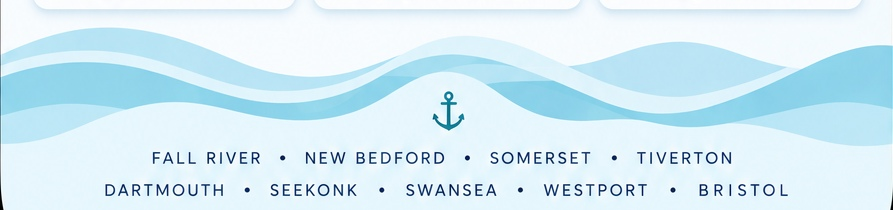
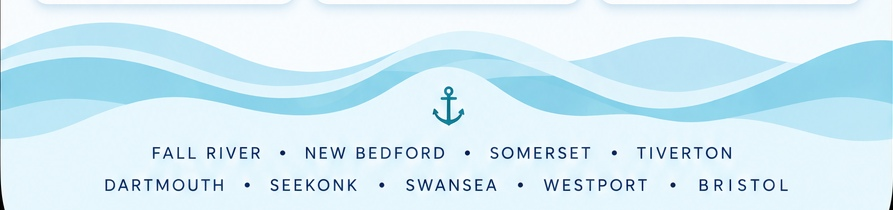
Add files via upload

diff --git a/styles.css b/styles.css
@@ -1,2 +1,2 @@
-:root{--navy:#0b315d;--teal:#1599a2;--sky:#e8f7fc;--paper:#fbfeff;--line:#dcebf2;--text:#10355f}
-*{box-sizing:border-box}body{margin:0;background:#dfe9ee;color:var(--text);font-family:Arial,"Trebuchet MS",sans-serif}.app{width:min(100%,900px);margin:0 auto;background:var(--paper);min-height:100vh;overflow:hidden}.brand-header{min-height:170px;background:#eaf8fd;display:grid;grid-template-columns:78px 1fr 78px;align-items:center;padding:8px 24px}.header-button{border:0;background:none;color:var(--navy);font-size:42px;cursor:pointer}.header-button.search{font-size:55px}.brand-lockup{text-align:center}.brand-mark{width:180px;height:75px;display:block;margin:0 auto -12px}.brand-name{font-size:42px;font-weight:800;letter-spacing:-2px;white-space:nowrap}.brand-name em{font-family:cursive;color:#15999f;font-size:53px;font-weight:500}.tagline{font-size:15px;letter-spacing:4px;margin-top:3px}.hero{position:relative;height:285px;background:#eaf8fd;overflow:hidden}.hero-image{width:100%;height:190px;object-fit:cover;display:block}.hero-copy{height:120px;text-align:center;padding:24px 12px;background:linear-gradient(#eaf8fd,#fbfeff)}.hero-copy h1{margin:0;font-size:42px;letter-spacing:-1.2px}.hero-copy p{margin:4px 0;font-size:24px}main{padding-bottom:26px}.location,.food,.how{padding:0 48px}.current,.town-toggle{width:100%;display:grid;grid-template-columns:58px 1fr 30px;align-items:center;text-align:left;border:0;border-radius:22px;cursor:pointer}.current{background:linear-gradient(100deg,#15949c,#11949f);color:#fff;padding:18px 25px;box-shadow:0 6px 14px #0d3c5a18}.current strong{display:block;font-size:24px}.current small{display:block;font-size:18px;margin-top:2px}.current b,.town-toggle b{font-size:42px;font-weight:400}.symbol{font-size:38px;transform:rotate(-45deg);display:block}.town-toggle{margin-top:9px;background:#e1f3fa;padding:17px 25px;color:var(--navy)}.town-toggle strong{font-size:21px}.pin{transform:none;font-size:20px}.towns{display:flex;flex-wrap:wrap;gap:9px;padding:9px 0 0;justify-content:center}.towns button{border:0;background:#e6f4fa;border-radius:18px;padding:10px 23px;font-size:17px;cursor:pointer}.towns button.selected{background:#cdebf1;font-weight:700}.food{margin-top:24px}h2{margin:0 0 13px;font-size:31px;letter-spacing:-.4px}.food-grid{display:grid;grid-template-columns:repeat(4,1fr);gap:12px}.food-card{height:111px;border:1px solid var(--line);background:#fff;border-radius:17px;display:flex;flex-direction:column;align-items:center;justify-content:center;gap:5px;cursor:pointer;box-shadow:0 5px 14px #195b7d17;font-size:43px}.food-card strong{font-size:19px}.food-card.selected{outline:2px solid #2aabb0}.surprise{display:block;margin:21px auto 0;background:#1769a0;color:#fff;border:0;border-radius:34px;padding:13px 35px;font-size:24px;font-weight:800;cursor:pointer}.how{margin-top:24px}.how-grid{display:grid;grid-template-columns:repeat(3,1fr);gap:14px}.how-card{height:78px;border:1px solid var(--line);background:#fff;border-radius:17px;display:flex;align-items:center;justify-content:center;gap:17px;cursor:pointer;box-shadow:0 5px 14px #195b7d17;font-size:31px}.how-card strong{font-size:22px}.how-card.selected{outline:2px solid #d6eef4}.find{display:block;width:calc(100% - 96px);margin:24px 48px 0;height:62px;border:0;border-radius:15px;background:var(--navy);color:#fff;font-size:15px;letter-spacing:1.3px;font-weight:800;cursor:pointer}.message{text-align:center;min-height:20px;color:var(--teal);padding-top:8px}footer{position:relative;height:210px;overflow:hidden;background:#e7f8fd;margin-top:25px}.waves{position:absolute;inset:0;background:radial-gradient(ellipse at 10% 55%,transparent 0 27%,#b5e7f5 28% 37%,transparent 38%),radial-gradient(ellipse at 65% 45%,transparent 0 27%,#9edbea 28% 37%,transparent 38%)}.footer-copy{position:absolute;left:0;right:0;bottom:24px;text-align:center;font-size:15px;letter-spacing:2px;line-height:2;color:var(--navy)}@media(max-width:650px){.brand-header{min-height:112px;grid-template-columns:42px 1fr 42px;padding:4px 8px}.header-button{font-size:31px}.header-button.search{font-size:42px}.brand-mark{width:125px;height:52px;margin-bottom:-8px}.brand-name{font-size:28px;letter-spacing:-1.4px}.brand-name em{font-size:37px}.tagline{font-size:9px;letter-spacing:2px}.hero{height:220px}.hero-image{height:140px}.hero-copy{height:120px;padding-top:24px}.hero-copy h1{font-size:30px}.hero-copy p{font-size:17px}.location,.food,.how{padding-left:18px;padding-right:18px}.current,.town-toggle{grid-template-columns:42px 1fr 24px;padding:13px 15px;border-radius:15px}.current strong{font-size:16px}.current small{font-size:12px}.current b,.town-toggle b{font-size:28px}.town-toggle strong{font-size:14px}.towns{gap:6px}.towns button{font-size:12px;padding:8px 12px}.food-grid{gap:8px}.food-card{height:88px;border-radius:13px;font-size:31px}.food-card strong{font-size:13px}h2{font-size:24px}.surprise{font-size:18px;padding:10px 26px}.how-grid{gap:8px}.how-card{height:60px;gap:8px;font-size:22px}.how-card strong{font-size:15px}.find{width:calc(100% - 36px);margin-left:18px;margin-right:18px;height:52px;font-size:11px}footer{height:155px}.footer-copy{font-size:8px;letter-spacing:1.2px;bottom:15px}}
+:root{--navy:#0b315d;--teal:#1599a2;--sky:#e8f7fc;--paper:#fbfeff;--line:#dcebf2}
+*{box-sizing:border-box}body{margin:0;background:#dfe9ee;color:var(--navy);font-family:Arial,"Trebuchet MS",sans-serif}.app{width:min(100%,900px);margin:auto;background:var(--paper);min-height:100vh;overflow:hidden}.header{height:170px;background:#eaf8fd;display:grid;grid-template-columns:90px 1fr 90px;align-items:center;padding:8px 24px}.menu,.search{border:0;background:none;color:var(--navy);cursor:pointer;font-size:47px}.search{font-size:62px}.logo{width:min(500px,100%);height:150px;object-fit:contain;margin:auto}.hero{height:300px;background:#eaf8fd;position:relative;overflow:hidden}.hero-photo{width:100%;height:175px;object-fit:cover;object-position:left center;display:block}.hero-bottom{height:140px;text-align:center;position:relative;padding-top:24px;background:linear-gradient(#eaf8fd,#fbfeff)}h1{margin:0;font-size:42px;letter-spacing:-1.2px}.hero-bottom p{margin:4px 0;font-size:24px}.side-slogan{position:absolute;right:36px;top:-155px;font-family:cursive;font-size:24px;line-height:1.05;text-align:center;transform:rotate(-4deg)}.location,.food,.how{padding:0 48px}.location{margin-top:-5px}.current,.town-toggle{width:100%;display:grid;grid-template-columns:58px 1fr 30px;align-items:center;border:0;border-radius:22px;text-align:left;cursor:pointer}.current{background:#159aa3;color:#fff;padding:18px 25px}.current b,.current small{display:block}.current b{font-size:24px}.current small{font-size:18px;margin-top:2px}.current i,.town-toggle i{font-style:normal;font-size:42px}.loc{font-size:39px;transform:rotate(-45deg)}.town-toggle{margin-top:9px;background:#e1f3fa;padding:17px 25px}.town-toggle b{font-size:21px}.pin{font-size:18px}.towns{display:flex;flex-wrap:wrap;justify-content:center;gap:9px;padding-top:9px}.towns button{border:0;background:#e6f4fa;border-radius:18px;padding:10px 23px;font-size:17px}.towns button.sel{background:#cdebf1;font-weight:bold}.food{margin-top:24px}.food h2,.how h2{margin:0 0 13px;font-size:31px}.food-grid{display:grid;grid-template-columns:repeat(4,1fr);gap:12px}.food-grid button{height:111px;border:1px solid var(--line);border-radius:17px;background:#fff;display:flex;flex-direction:column;align-items:center;justify-content:center;gap:5px;box-shadow:0 5px 14px #195b7d17;cursor:pointer;font-size:43px}.food-grid b{font-size:19px}.food-grid button.sel{outline:2px solid #2aabb0}.surprise{display:block;margin:21px auto 0;border:0;border-radius:34px;background:#1769a0;color:#fff;padding:13px 35px;font-size:24px;font-weight:bold;cursor:pointer}.how{margin-top:24px}.how-grid{display:grid;grid-template-columns:repeat(3,1fr);gap:14px}.how-grid button{height:78px;border:1px solid var(--line);background:#fff;border-radius:17px;box-shadow:0 5px 14px #195b7d17;font-size:31px;cursor:pointer}.how-grid b{font-size:22px}.how-grid button.sel{outline:2px solid #d6eef4}.find{display:block;width:calc(100% - 96px);height:62px;margin:24px 48px 0;border:0;border-radius:15px;background:var(--navy);color:#fff;font-size:15px;letter-spacing:1.3px;font-weight:bold}.msg{text-align:center;min-height:20px;color:var(--teal);padding-top:8px}footer{height:210px;margin-top:25px;overflow:hidden;background:#e7f8fd}.footer-photo{width:100%;height:100%;object-fit:cover;object-position:center bottom}@media(max-width:650px){.header{height:112px;grid-template-columns:42px 1fr 42px;padding:4px 8px}.menu{font-size:32px}.search{font-size:43px}.logo{height:105px;width:100%}.hero{height:220px}.hero-photo{height:140px}.hero-bottom{height:120px;padding-top:24px}.hero-bottom h1{font-size:30px}.hero-bottom p{font-size:17px}.side-slogan{display:none}.location,.food,.how{padding-left:18px;padding-right:18px}.current,.town-toggle{grid-template-columns:42px 1fr 24px;padding:13px 15px;border-radius:15px}.current b{font-size:16px}.current small{font-size:12px}.current i,.town-toggle i{font-size:28px}.town-toggle b{font-size:14px}.towns{gap:6px}.towns button{font-size:12px;padding:8px 12px}.food-grid{gap:8px}.food-grid button{height:88px;border-radius:13px;font-size:31px}.food-grid b{font-size:13px}.food h2,.how h2{font-size:24px}.surprise{font-size:18px;padding:10px 26px}.how-grid{gap:8px}.how-grid button{height:60px;font-size:22px}.how-grid b{font-size:15px}.find{width:calc(100% - 36px);margin-left:18px;margin-right:18px;height:52px;font-size:11px}footer{height:155px}.footer-photo{object-position:center bottom}}

diff --git a/index.html b/index.html
@@ -2,74 +2,73 @@
 <html lang="en">
 <head>
 <meta charset="utf-8">
-<meta name="viewport" content="width=device-width, initial-scale=1">
+<meta name="viewport" content="width=device-width,initial-scale=1">
 <title>SouthCoast Eats</title>
 <link rel="stylesheet" href="styles.css">
 </head>
 <body>
 <div class="app">
-  <header class="brand-header">
-    <button class="header-button" aria-label="Open menu">☰</button>
-    <div class="brand-lockup" aria-label="SouthCoast Eats — Local Picks. Better Meals.">
-      <svg class="brand-mark" viewBox="0 0 220 92" role="img" aria-label="Wave and sun">
-        <circle cx="72" cy="31" r="25" fill="#f6bd42"/>
-        <path d="M25 48 Q70 18 112 43 T195 39" fill="none" stroke="#1497ad" stroke-width="18" stroke-linecap="round"/>
-        <path d="M25 48 Q70 18 112 43 T195 39" fill="none" stroke="#ffffff" stroke-width="4" stroke-linecap="round"/>
-        <path d="M25 62 Q70 38 112 57 T195 53" fill="none" stroke="#0b315d" stroke-width="5" stroke-linecap="round"/>
-      </svg>
-      <div class="brand-name"><span>SouthCoast</span> <em>Eats</em></div>
-      <div class="tagline">LOCAL PICKS. BETTER MEALS.</div>
-    </div>
-    <button class="header-button search" aria-label="Search">⌕</button>
-  </header>
+<header class="header">
+  <button class="menu" aria-label="Menu">☰</button>
+  <img src="brand-logo.jpg" alt="SouthCoast Eats — Local Picks. Better Meals." class="logo">
+  <button class="search" aria-label="Search">⌕</button>
+</header>
 
-  <section class="hero">
-    <img src="coastal-hero.jpg" alt="" class="hero-image">
-    <div class="hero-copy">
-      <h1>What sounds good?</h1>
-      <p>Find great food around the SouthCoast.</p>
-    </div>
-  </section>
+<section class="hero">
+  <img src="coastal-hero.jpg" class="hero-photo" alt="">
+  <div class="hero-bottom">
+    <div class="side-slogan">Good<br>Food<br>Happens<br>Here</div>
+    <h1>What sounds good?</h1>
+    <p>Find great food around the SouthCoast.</p>
+  </div>
+</section>
 
-  <main>
-    <section class="location">
-      <button class="current" id="current"><span class="symbol">➤</span><span><strong>Use my current location</strong><small>Find what’s open near you</small></span><b>›</b></button>
-      <button class="town-toggle" id="town-toggle" aria-expanded="true"><span class="symbol pin">●</span><strong>Search near a town instead</strong><b>›</b></button>
-      <div class="towns" id="towns">
-        <button>Fall River</button><button>New Bedford</button><button>Dartmouth</button><button>Somerset</button><button>Tiverton</button><button>Westport</button><button>Swansea</button><button>Seekonk</button><button>Bristol</button>
-      </div>
-    </section>
+<main>
+<section class="location">
+  <button class="current" id="current">
+    <span class="loc">➤</span><span><b>Use my current location</b><small>Find what’s open near you</small></span><i>›</i>
+  </button>
+  <button class="town-toggle" id="townToggle">
+    <span class="pin">●</span><b>Search near a town instead</b><i>›</i>
+  </button>
+  <div class="towns" id="towns">
+    <button>Fall River</button><button>New Bedford</button><button>Dartmouth</button><button>Somerset</button><button>Tiverton</button>
+    <button>Westport</button><button>Swansea</button><button>Seekonk</button><button>Bristol</button>
+  </div>
+</section>
 
-    <section class="food">
-      <h2>I’m craving...</h2>
-      <div class="food-grid">
-        <button class="food-card">🍕<strong>Pizza</strong></button><button class="food-card">🍔<strong>American</strong></button><button class="food-card">🦐<strong>Seafood</strong></button><button class="food-card">🍝<strong>Italian</strong></button>
-        <button class="food-card">🌮<strong>Mexican</strong></button><button class="food-card">🥡<strong>Asian</strong></button><button class="food-card">🍺<strong>Pub/Burger</strong></button><button class="food-card">🔥<strong>BBQ</strong></button>
-        <button class="food-card">🥞<strong>Breakfast</strong></button><button class="food-card">☕<strong>Coffee &amp; Treats</strong></button><button class="food-card">🥗<strong>Healthy</strong></button><button class="food-card">🍰<strong>Dessert</strong></button>
-      </div>
-      <button class="surprise" id="surprise">⚄ &nbsp; Surprise Me</button>
-    </section>
+<section class="food">
+<h2>I’m craving...</h2>
+<div class="food-grid">
+<button>🍕<b>Pizza</b></button><button>🍔<b>American</b></button><button>🦐<b>Seafood</b></button><button>🍝<b>Italian</b></button>
+<button>🌮<b>Mexican</b></button><button>🥡<b>Asian</b></button><button>🍺<b>Pub/Burger</b></button><button>🔥<b>BBQ</b></button>
+<button>🥞<b>Breakfast</b></button><button>☕<b>Coffee &amp; Treats</b></button><button>🥗<b>Healthy</b></button><button>🍰<b>Dessert</b></button>
+</div>
+<button class="surprise" id="surprise">⚄ &nbsp; Surprise Me</button>
+</section>
 
-    <section class="how">
-      <h2>How do you want it?</h2>
-      <div class="how-grid"><button class="how-card selected">🚗 <strong>Pickup</strong></button><button class="how-card">🛵 <strong>Delivery</strong></button><button class="how-card">🍴 <strong>Dine In</strong></button></div>
-    </section>
+<section class="how">
+<h2>How do you want it?</h2>
+<div class="how-grid"><button>🚗 <b>Pickup</b></button><button>🛵 <b>Delivery</b></button><button>🍴 <b>Dine In</b></button></div>
+</section>
 
-    <button class="find" id="find">FIND MY TONIGHT'S PICK&nbsp; →</button>
-    <div class="message" id="message" aria-live="polite"></div>
-  </main>
+<button class="find" id="find">FIND MY TONIGHT'S PICK&nbsp; →</button>
+<div class="msg" id="msg"></div>
+</main>
 
-  <footer><div class="waves"></div><div class="footer-copy">⚓<br>FALL RIVER • NEW BEDFORD • SOMERSET • TIVERTON<br>DARTMOUTH • SEEKONK • SWANSEA • WESTPORT • BRISTOL</div></footer>
+<footer><img src="coastal-footer.jpg" alt="" class="footer-photo"></footer>
 </div>
 <script>
-const $ = id => document.getElementById(id);
-$('town-toggle').addEventListener('click',()=>{ $('towns').hidden=!$('towns').hidden; $('town-toggle').setAttribute('aria-expanded',String(!$('towns').hidden)); });
-$('current').addEventListener('click',()=> $('message').textContent='Using your current location.');
-document.querySelectorAll('.towns button').forEach(b=>b.addEventListener('click',()=>{document.querySelectorAll('.towns button').forEach(x=>x.classList.remove('selected'));b.classList.add('selected');}));
-document.querySelectorAll('.food-card').forEach(b=>b.addEventListener('click',()=>{document.querySelectorAll('.food-card').forEach(x=>x.classList.remove('selected'));b.classList.add('selected');}));
-$('surprise').addEventListener('click',()=>{const a=[...document.querySelectorAll('.food-card')];a.forEach(x=>x.classList.remove('selected'));a[Math.floor(Math.random()*a.length)].classList.add('selected');});
-document.querySelectorAll('.how-card').forEach(b=>b.addEventListener('click',()=>{document.querySelectorAll('.how-card').forEach(x=>x.classList.remove('selected'));b.classList.add('selected');}));
-$('find').addEventListener('click',()=> $('message').textContent="Recommendation flow coming next.");
+const msg=document.getElementById('msg');
+document.getElementById('current').onclick=()=>msg.textContent='Using your current location.';
+document.getElementById('townToggle').onclick=()=>{
+ const t=document.getElementById('towns'); t.hidden=!t.hidden;
+};
+document.querySelectorAll('.towns button').forEach(b=>b.onclick=()=>{document.querySelectorAll('.towns button').forEach(x=>x.classList.remove('sel'));b.classList.add('sel')});
+document.querySelectorAll('.food-grid button').forEach(b=>b.onclick=()=>{document.querySelectorAll('.food-grid button').forEach(x=>x.classList.remove('sel'));b.classList.add('sel')});
+document.getElementById('surprise').onclick=()=>{const a=[...document.querySelectorAll('.food-grid button')];a.forEach(x=>x.classList.remove('sel'));a[Math.floor(Math.random()*a.length)].classList.add('sel')};
+document.querySelectorAll('.how-grid button').forEach(b=>b.onclick=()=>{document.querySelectorAll('.how-grid button').forEach(x=>x.classList.remove('sel'));b.classList.add('sel')});
+document.getElementById('find').onclick=()=>msg.textContent='Recommendation flow coming next.';
 </script>
 </body>
 </html>
